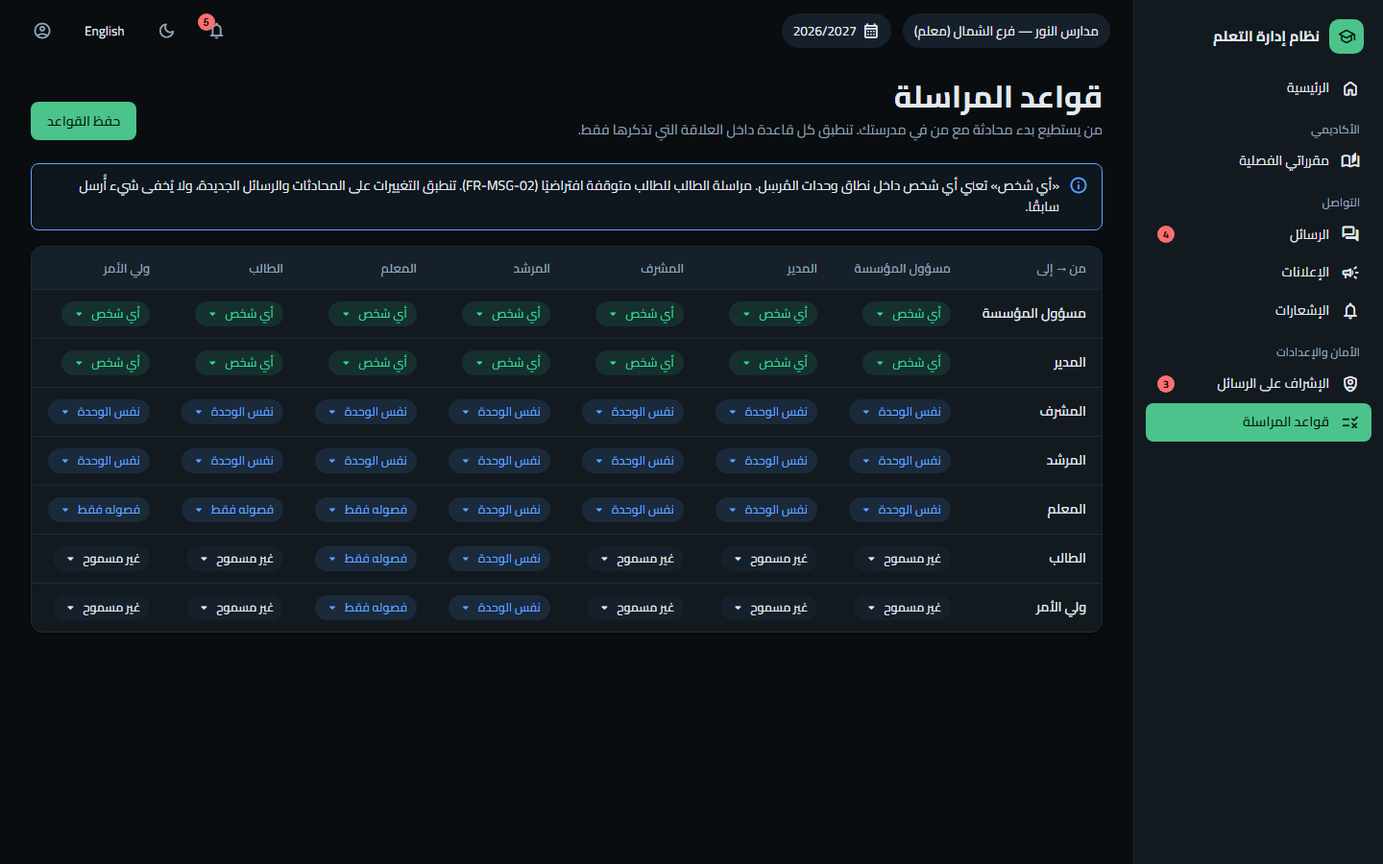
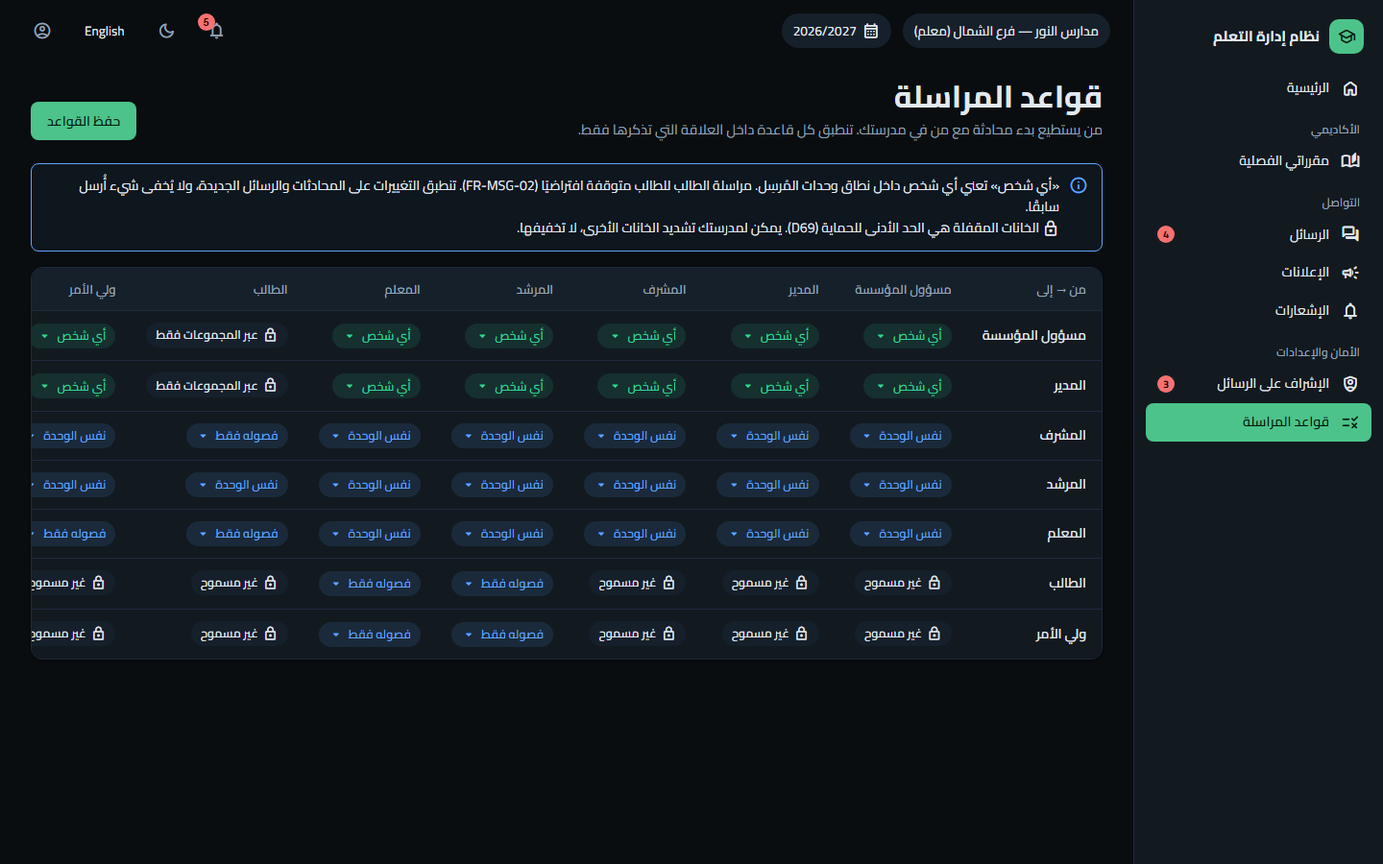
docs(design): M6 spec rev 3 - D66-D69 and #613 revision 3
Delete for everyone within 15 min ('Message deleted', no edit) and a
separate moderator 'removed' text; announcement targets Level and
IncludeSubtree with the Staff/Students/Guardians role filter replacing
the guardians toggle; attachments settled; moderation scoped by
MessageReportUnit with #613's action set (restrict wording kept); D69
in the picker for managers and admins (compose-admin state) and a
locked safeguarding floor on the rules page; read receipts off by
default; section 10 records the owner decisions.

Changed region(s): [[0.0, 0.2489, 0.8125, 0.7778], [0.0312, 0.3733, 0.0625, 0.4044]]

diff --git a/docs/design/mockups/m6.html b/docs/design/mockups/m6.html
@@ -294,6 +294,13 @@ const S = {
     rlNote:'“Anyone” means anyone inside the sender’s own unit scope. Student to student is off by default (FR-MSG-02). Changes apply to new conversations and new messages; nothing already sent is hidden.',
     roAdmin:'Org admin', roMgr:'Manager', roSup:'Supervisor', roCou:'Counselor', roTch:'Teacher', roStu:'Student', roGua:'Guardian',
     vAny:'Anyone', vRel:'Own classes', vUnit:'Same unit', vNo:'Not allowed', navRules:'Messaging rules', secSec:'Security and settings'
+    , gm4:'This message was removed by a moderator.', delEveryone:'Delete for everyone', msgDeleted:'Message deleted', youDeleted:'You deleted this message.',
+    scLevel:'Level', inclSub:'Include the units below', inclSubH:'North Branch and every unit under it.', roleF:'Who in these targets', audLevel:'Grade 10',
+    dKeep:'Keep the message', dKeepH:'Close the report. The message stays; the reporter is told it was reviewed.', dRemove:'Remove the message', dRemoveH:'Everyone in the conversation sees “removed by a moderator”. Moderators keep the original text.',
+    dWarn:'Warn the sender', dWarnH:'Yousef gets a warning notice. The message stays.', dRestrictOnly:'Restrict the sender', dRemRes:'Remove and restrict the sender', dRemResH:'Removes the message, and Yousef can read but not send until the end date.',
+    d69t:'No students here', d69:'Managers and org admins reach students through a class or group conversation, or an announcement, not a private message. Your school’s safeguarding rules set this.',
+    adminSearch:'Omar', grpStudents:'Groups that include students', o6:'Grade 10 — students and guardians (group)', o6c:'52 people',
+    vGroups:'Groups only', locked:'Set by the platform (safeguarding): can’t be loosened', rlNote2:'Locked cells are the safeguarding floor (D69). Your school can make other cells stricter, never looser.'
   },
   ar: {
     app:'نظام إدارة التعلم', ctx:'مدارس النور — فرع الشمال (معلم)', year:'2026/2027', other:'English',
@@ -362,6 +369,13 @@ const S = {
     rlNote:'«أي شخص» تعني أي شخص داخل نطاق وحدات المُرسِل. مراسلة الطالب للطالب متوقفة افتراضيًا (FR-MSG-02). تنطبق التغييرات على المحادثات والرسائل الجديدة، ولا يُخفى شيء أُرسل سابقًا.',
     roAdmin:'مسؤول المؤسسة', roMgr:'المدير', roSup:'المشرف', roCou:'المرشد', roTch:'المعلم', roStu:'الطالب', roGua:'ولي الأمر',
     vAny:'أي شخص', vRel:'فصوله فقط', vUnit:'نفس الوحدة', vNo:'غير مسموح', navRules:'قواعد المراسلة', secSec:'الأمان والإعدادات'
+    , gm4:'أزال المشرف هذه الرسالة.', delEveryone:'حذف لدى الجميع', msgDeleted:'رسالة محذوفة', youDeleted:'حذفت هذه الرسالة.',
+    scLevel:'المستوى', inclSub:'تضمين الوحدات التابعة', inclSubH:'فرع الشمال وكل الوحدات التابعة له.', roleF:'من يراه داخل هذه الأهداف', audLevel:'الصف العاشر',
+    dKeep:'إبقاء الرسالة', dKeepH:'إغلاق البلاغ وتبقى الرسالة، ويُبلَّغ المُبلِغ بأنه رُوجع.', dRemove:'إزالة الرسالة', dRemoveH:'يرى كل من في المحادثة «أزالها المشرف». يحتفظ المشرفون بالنص الأصلي.',
+    dWarn:'تحذير المُرسِل', dWarnH:'يصل إلى يوسف إشعار تحذير، وتبقى الرسالة.', dRestrictOnly:'منع المُرسِل من المراسلة', dRemRes:'الإزالة ومنع المُرسِل', dRemResH:'تُزال الرسالة، ويستطيع يوسف القراءة دون الإرسال حتى تاريخ الانتهاء.',
+    d69t:'لا يظهر الطلاب هنا', d69:'يتواصل المديرون ومسؤولو المؤسسة مع الطلاب عبر محادثة فصل أو مجموعة، أو عبر إعلان، لا برسالة خاصة. تحدد ذلك قواعد الحماية في مدرستك.',
+    adminSearch:'عمر', grpStudents:'مجموعات تضم طلابًا', o6:'الصف العاشر — الطلاب وأولياء الأمور (مجموعة)', o6c:'52 شخصًا',
+    vGroups:'عبر المجموعات فقط', locked:'تحدده المنصة (الحماية): لا يمكن تخفيفه', rlNote2:'الخانات المقفلة هي الحد الأدنى للحماية (D69). يمكن لمدرستك تشديد الخانات الأخرى، لا تخفيفها.'
   }
 }[lang];
 
@@ -400,7 +414,9 @@ function inbox() {
     <div class="lms-thread-body" role="log" aria-live="polite"><span class="lms-day">${S.yesterday}</span>
       ${msg('them', S.m1, `<span class="ltr">16:05</span>`)}
       ${msg('me', S.m2, `<span class="ltr">16:20</span> · ${I('done_all','ms-sm')} ${S.seen}`, '', `<div class="lms-attach">${I('picture_as_pdf')}<span>${S.attach}</span></div>`)}
-      <span class="lms-day">${S.today}</span>${msg('them', S.m3, `<span class="ltr">10:42</span>`)}</div>${composer()}</section>`;
+      <span class="lms-day">${S.today}</span>${msg('them', S.m3, `<span class="ltr">10:42</span>`)}
+      <div style="position:relative;align-self:flex-end">${msg('me', (lang==='ar'?'ممتاز، شكرًا لكِ.':'Great, thank you.'), `<span class="ltr">10:44</span> · ${S.sent}`)}
+        <div class="lms-menu" role="menu" style="position:absolute;inset-block-end:100%;inset-inline-end:0;margin-block-end:6px"><div>${I('content_copy')}${S.menuCopy}</div><hr><div class="err">${I('delete')}${S.delEveryone}</div></div></div></div>${composer()}</section>`;
   return shell('inbox', header(S.inboxTitle, S.inboxSub, `<button class="btn btn-filled">${I('edit_square')}${S.newMsg}</button>`) + `<div class="card lms-inbox">${list('c1')}${thread}</div>`);
 }
 function thread() {
@@ -410,9 +426,10 @@ function thread() {
       ${msg('me', S.gm1, `<span class="ltr">09:15</span> · ${S.sent}`)}
       <div style="position:relative">${msg('them', S.gm2, `<span class="ltr">09:31</span>`, S.fromHuda)}
         <button class="icon-btn sm focus" aria-label="${S.moreActions}" aria-expanded="true" style="position:absolute;inset-block-start:22px;inset-inline-start:min(420px,72%)">${I('more_horiz')}</button>
-        <div class="lms-menu" role="menu" style="inset-block-start:58px;inset-inline-start:min(300px,30%)"><div>${I('notifications_off')}${S.menuMute}</div><div>${I('content_copy')}${S.menuCopy}</div><div>${I('delete')}${S.delMe}</div><hr><div class="err">${I('flag')}${S.menuReport}</div><div class="err">${I('block')}${S.menuBlock}</div></div></div>
+        <div class="lms-menu" role="menu" style="inset-block-start:58px;inset-inline-start:min(300px,30%)"><div>${I('notifications_off')}${S.menuMute}</div><div>${I('content_copy')}${S.menuCopy}</div><hr><div class="err">${I('flag')}${S.menuReport}</div><div class="err">${I('block')}${S.menuBlock}</div></div></div>
       <div class="lms-msg lms-msg-them lms-msg-removed"><span class="lms-msg-from">${S.fromAhmad}</span><div class="lms-bubble">${I('do_not_disturb_on','ms-sm')} ${S.gm4}</div></div>
-      ${msg('me', S.gm3, `<span class="ltr">09:40</span> · ${I('done_all','ms-sm')} ${S.seen}`)}</div>
+      ${msg('me', S.gm3, `<span class="ltr">09:40</span> · ${S.sent}`)}
+      <div class="lms-msg lms-msg-me lms-msg-removed"><div class="lms-bubble">${I('delete','ms-sm')} ${S.youDeleted}</div><span class="lms-msg-meta"><span class="ltr">09:41</span></span></div></div>
     <div class="lms-composer-off"><div class="alert alert-info">${I('info')}<span class="t">${S.off}</span></div></div></section>`;
   return shell('inbox', header(S.inboxTitle, S.inboxSub, `<button class="btn btn-filled">${I('edit_square')}${S.newMsg}</button>`) + `<div class="card lms-inbox show-thread">${list('c2')}${t}</div>`);
 }
@@ -443,8 +460,8 @@ function announcements() {
     `<div class="seg" role="tablist" style="margin-block-end:20px"><span aria-selected="true">${S.fNow}</span><span>${S.fScheduled}</span><span>${S.fDrafts}</span><span>${S.fExpired}</span><span>${S.fWithdrawn}</span></div>
     <div class="lms-ann-list">
     ${ann({pin:1, icon:'push_pin', t:S.a1, chips:`<span class="chip chip-success chip-dot">${S.pinned}</span>`, m:`<span>${S.a1m}</span><span>${S.a1x}</span>`, x:S.a1t, aud:aud('domain',S.audOrg)+aud('family_restroom',S.audRoleG), read:S.readBy})}
-    ${ann({icon:'campaign', t:S.a2, m:`<span>${S.a2m}</span>`, x:S.a2t, aud:aud('menu_book',S.audCourse+' · '+S.audClass)+aud('family_restroom',S.audInclG)})}
-    ${ann({icon:'schedule', t:S.a3, chips:`<span class="chip chip-info chip-dot">${S.scheduled}</span>`, m:`<span>${S.a3m}</span>`, x:S.a3t, aud:aud('account_tree',S.audUnit)+aud('school',S.audRoleS)+aud('family_restroom',S.audInclG)})}
+    ${ann({icon:'campaign', t:S.a2, m:`<span>${S.a2m}</span>`, x:S.a2t, aud:aud('menu_book',S.audCourse+' · '+S.audClass)+aud('school',S.audRoleS)+aud('family_restroom',S.audRoleG)})}
+    ${ann({icon:'schedule', t:S.a3, chips:`<span class="chip chip-info chip-dot">${S.scheduled}</span>`, m:`<span>${S.a3m}</span>`, x:S.a3t, aud:aud('account_tree',S.audUnit)+aud('stairs',S.audLevel)+aud('school',S.audRoleS)+aud('family_restroom',S.audRoleG)})}
     </div>`);
 }
 function announceCompose() {
@@ -453,9 +470,10 @@ function announceCompose() {
     <div class="grid2"><div class="field"><span class="label">${S.acTitleAr}</span><div class="input" dir="rtl">لقاءات أولياء الأمور والمعلمين</div></div><div class="field"><span class="label" style="color:var(--mud-palette-error)">${S.acTitleEn}</span><div class="input" dir="ltr" aria-invalid="true" style="border:2px solid var(--mud-palette-error)"><span class="ph-text"></span></div><span class="help" style="color:var(--mud-palette-error)">${I('error','ms-sm')} ${S.errTitleEn}</span></div></div>
     <div class="field"><span class="label">${S.acBody}</span><div class="input" style="min-height:80px;align-items:flex-start">${S.a1t}</div></div>
     <fieldset style="border:0;padding:0;margin:0;display:flex;flex-direction:column;gap:12px"><legend class="label" style="margin-block-end:8px">${S.audScope}</legend>
-      <div class="seg" style="flex-wrap:wrap"><span>${S.scOrg}</span><span aria-selected="true">${S.scUnit}</span><span>${S.scClass}</span><span>${S.scCourse}</span><span>${S.scGroup}</span><span>${S.scRole}</span></div>
+      <div class="seg" style="flex-wrap:wrap"><span>${S.scOrg}</span><span aria-selected="true">${S.scUnit}</span><span>${S.scLevel}</span><span>${S.scClass}</span><span>${S.scCourse}</span><span>${S.scGroup}</span></div>
       <div class="field"><span class="label">${S.audPick}</span><div class="input"><span class="chip chip-input">${S.audUnit}<span class="ms ms-sm">close</span></span><span class="ph-text"></span>${I('arrow_drop_down')}</div></div>
-      <div class="toggle-row"><div class="t"><b>${S.inclG}</b><span class="help">${S.inclGH}</span></div><span class="switch on"></span></div>
+      <div class="toggle-row"><div class="t"><b>${S.inclSub}</b><span class="help">${S.inclSubH}</span></div><span class="switch on"></span></div>
+      <div class="field"><span class="label">${S.roleF}</span><div style="display:flex;flex-wrap:wrap;gap:8px"><span class="chip chip-success">${I('check')}${S.rStaff}</span><span class="chip">${S.rStudents}</span><span class="chip chip-success">${I('check')}${S.rGuardians}</span></div></div>
       <div class="alert alert-info">${I('groups')}<span class="t" role="status">${S.reach}</span></div></fieldset>
     <div class="field"><span class="label">${S.when}</span><div class="seg"><span>${S.pNow}</span><span aria-selected="true">${S.pLater}</span></div></div>
     <div class="grid2"><div class="field"><span class="label">${S.pDate}</span><div class="input"><span class="ltr">2026-11-15</span><span class="ph-text"></span>${I('event')}</div></div><div class="field"><span class="label">${S.pTime}</span><div class="input"><span class="ltr">07:00</span><span class="ph-text"></span>${I('schedule')}</div></div></div>
@@ -496,7 +514,7 @@ function moderation() {
         ${msg('them', S.dm1, '<span class="ltr">10:31</span>', S.from1)}<div class="lms-flagged">${msg('them', S.dm2, `<span class="ltr">10:38</span> · <span class="chip chip-warning" style="height:22px">${I('flag')}${S.flagged}</span>`, S.from2)}</div>${msg('them', S.dm3, '<span class="ltr">10:40</span>', S.from3)}</div>
       <div><div class="label">${S.reasonL}</div><p>${S.r1r} · ${S.reasonT}</p></div>
       <div><div class="label">${S.sender}</div><p class="muted">${S.senderV}</p></div>
-      <fieldset style="border:0;padding:0;margin:0;display:flex;flex-direction:column;gap:8px"><legend class="label" style="margin-block-end:6px">${S.decide}</legend>${opt(0,S.dDismiss,S.dDismissH)}${opt(0,S.dHide,S.dHideH)}${opt(1,S.dRestrict,S.dRestrictH,1)}
+      <fieldset style="border:0;padding:0;margin:0;display:flex;flex-direction:column;gap:8px"><legend class="label" style="margin-block-end:6px">${S.decide}</legend>${opt(0,S.dKeep,S.dKeepH)}${opt(0,S.dRemove,S.dRemoveH)}${opt(0,S.dWarn,S.dWarnH)}${opt(1,S.dRemRes,S.dRemResH,1)}
         <div class="grid2" style="padding-inline-start:44px"><div class="field"><span class="label">${S.forL}</span><div class="input"><span>${S.days7}</span><span class="ph-text"></span>${I('arrow_drop_down')}</div><span class="help ltr">${S.untilL}</span></div></div>
         ${opt(0,S.dLock,S.dLockH,1)}</fieldset>
       <div class="field"><span class="label">${S.note}</span><div class="input" style="min-height:64px"></div></div>
@@ -508,6 +526,19 @@ function moderation() {
       ${r(1,`<span class="chip chip-warning chip-dot">${S.sReview}</span>`,1)}${r(2,`<span class="chip chip-info chip-dot">${S.sNew}</span>`)}${r(3,`<span class="chip chip-error chip-dot">${S.sNew}</span>`)}${r(4,`<span class="chip chip-info chip-dot">${S.sNew}</span>`)}</tbody></table></div>${detail}</div>`);
 }
 
+
+function composeAdmin() {
+  return `<div class="dialog-wrap"><div class="dialog" role="dialog"><div class="dialog-head"><span class="sec-icon">${I('edit_square')}</span><h2 class="h6" style="flex:1">${S.composeTitle}</h2><button class="icon-btn">${I('close')}</button></div>
+  <div class="dialog-body"><div class="field"><span class="label">${S.to}</span>
+    <div class="input focused"><span>${S.adminSearch}</span><span class="ph-text"></span></div>
+    <div class="lms-picker-pop" role="listbox"><div class="lms-picker-group">${S.grpPeople}</div>
+      <div class="lms-picker-opt" aria-disabled="true" style="align-items:flex-start">${I('shield_person')}<span class="grow"><b style="font-weight:600;color:var(--mud-palette-text-primary)">${S.d69t}</b><div class="caption">${S.d69}</div></span></div>
+      <div class="lms-picker-group">${S.grpStudents}</div>
+      <div class="lms-picker-opt">${I('groups')}<span class="grow">${S.o6}</span><span class="caption muted">${S.o6c}</span></div>
+      <div class="lms-picker-opt">${I('groups')}<span class="grow">${S.o1}</span><span class="caption muted">${S.o1c}</span></div></div>
+    <span class="help">${S.toHelp}</span></div></div>
+  <div class="dialog-actions"><button class="btn">${S.cancel}</button><button class="btn btn-filled" disabled>${I('send','flip')}${S.sendBtn}</button></div></div></div>`;
+}
 function composerStates() {
   const st = (label, html, action='') => `<div class="card" style="overflow:hidden"><div class="caption muted" style="padding:10px 16px;font-weight:600">${label}</div><div class="lms-composer-off" style="display:flex;gap:12px;align-items:center;flex-wrap:wrap">${html}${action}</div></div>`;
   const al = (t, icon='info', cls='alert-info') => `<div class="alert ${cls}" style="flex:1;min-inline-size:220px">${I(icon)}<span class="t">${t}</span></div>`;
@@ -522,15 +553,17 @@ function composerStates() {
 }
 function rules() {
   const roles = ['roAdmin','roMgr','roSup','roCou','roTch','roStu','roGua'];
-  const v = { roAdmin:'AAAAAAA', roMgr:'AAAAAAA', roSup:'UUUUUUU', roCou:'UUUUUUU', roTch:'UUUURRR', roStu:'NNNURNN', roGua:'NNNURNN' };
-  const cell = (c, to) => { const t = {A:S.vAny, U:S.vUnit, R:S.vRel, N:S.vNo}[c]; const cls = c==='N' ? '' : c==='A' ? 'chip-success' : 'chip-info';
+  const v = { roAdmin:'AAAAAGA', roMgr:'AAAAAGA', roSup:'UUUUURU', roCou:'UUUUUUU', roTch:'UUUUURR', roStu:'XXXRRXX', roGua:'XXXRRXX' };
+  const cell = (c, to) => {
+    if (c === 'X' || c === 'G') return `<td data-label="${S[to]}"><span class="chip" title="${S.locked}">${I('lock','ms-sm')}${c==='G'?S.vGroups:S.vNo}<span class="vh">${S.locked}</span></span></td>`;
+    const t = {A:S.vAny, U:S.vUnit, R:S.vRel, N:S.vNo}[c]; const cls = c==='N' ? '' : c==='A' ? 'chip-success' : 'chip-info';
     return `<td data-label="${S[to]}"><span class="chip ${cls}">${t}${I('arrow_drop_down')}</span></td>`; };
   return shell('rules', header(S.rlTitle, S.rlSub, `<button class="btn btn-filled">${S.rlSave}</button>`) +
-    `<div class="alert alert-info" style="margin-block-end:16px">${I('info')}<span class="t">${S.rlNote}</span></div>
+    `<div class="alert alert-info" style="margin-block-end:16px">${I('info')}<span class="t">${S.rlNote}<br>${I('lock','ms-sm')} ${S.rlNote2}</span></div>
     <div class="card" style="overflow-x:auto"><table class="stack"><thead><tr><th>${S.rlFrom} → ${S.to}</th>${roles.map(r => `<th>${S[r]}</th>`).join('')}</tr></thead><tbody>
-    ${roles.map(r => `<tr><td data-label="${S.rlFrom}" style="font-weight:600">${S[r]}</td>${[...v[r]].map((c,i) => cell(c, roles[i])).join('')}</tr>`).join('')}</tbody></table></div>`);
+    ${roles.map(r => `<tr><td data-label="${S.rlFrom}" style="font-weight:600;white-space:nowrap;overflow-wrap:normal">${S[r]}</td>${[...v[r]].map((c,i) => cell(c, roles[i])).join('')}</tr>`).join('')}</tbody></table></div>`);
 }
-document.getElementById('app').innerHTML = ({inbox, thread, compose, announcements, 'announce-compose':announceCompose, notifications, prefs, moderation, 'composer-states':composerStates, rules}[screen] || inbox)();
+document.getElementById('app').innerHTML = ({inbox, thread, compose, announcements, 'announce-compose':announceCompose, notifications, prefs, moderation, 'composer-states':composerStates, rules, 'compose-admin':composeAdmin}[screen] || inbox)();
 </script>
 </body>
 </html>

diff --git a/docs/design/m6-communication.md b/docs/design/m6-communication.md
@@ -1,9 +1,9 @@
 # M6 design spec (draft): communication
 
-**Status:** draft, revision 2 (QA2's review on #615, aligned with FE1's #612 and BE1's #613). It isn't a plan task yet; the plan decides scope and order. Names that must match the backend (`ModerationActions`, `AnnouncementTargetKinds`, statuses) follow #613; §11 lists what this spec asks #612 and #613 to change.
+**Status:** draft, revision 3: QA2's re-review, aligned with the owner decisions **D66–D69** and **#613 revision 3**. It isn't a plan task yet; the plan decides scope and order. Names that must match the backend (`ModerationActions`, `AnnouncementTargetKinds`, statuses) follow #613; §11 lists what this spec asks #612 and #613 to change.
 **PRD:** FR-NOT-01, FR-NOT-02, FR-NOT-03, FR-MSG-01, FR-MSG-02, FR-MSG-03, FR-MSG-04; X-01 (bilingual), X-07 (notifications), X-10 (accessibility, 360 px).
-**Mockups:** `docs/design/mockups/m6.html`. It's static HTML in the Stitch tokens from `LmsTheme.cs` and `lms-stitch.css`. Open it with `?screen=inbox|thread|composer-states|compose|announcements|announce-compose|notifications|prefs|moderation|rules&lang=ar|en&theme=light|dark` (and `screen=prefs&push=denied`).
-**Screenshots:** `docs/screenshots/ux-m6/<screen>-<lang>-<theme>-<width>.png`. Each screen is shot at 1440 px (en light, ar dark) and at 360 px (ar light, en dark): 44 shots, none scrolls sideways.
+**Mockups:** `docs/design/mockups/m6.html`. It's static HTML in the Stitch tokens from `LmsTheme.cs` and `lms-stitch.css`. Open it with `?screen=inbox|thread|composer-states|compose|compose-admin|announcements|announce-compose|notifications|prefs|moderation|rules&lang=ar|en&theme=light|dark` (and `screen=prefs&push=denied`).
+**Screenshots:** `docs/screenshots/ux-m6/<screen>-<lang>-<theme>-<width>.png`. Each screen is shot at 1440 px (en light, ar dark) and at 360 px (ar light, en dark): 48 shots, none scrolls sideways.
 
 Everything in `docs/DESIGN.md` (the Stitch section and its deviations table) applies. This file only adds what M6 needs. The new classes in §8 go into `lms-stitch.css` in a small `lane:ux` PR before the M6 pages start.
 
@@ -15,6 +15,7 @@ Everything in `docs/DESIGN.md` (the Stitch section and its deviations table) app
   - The recipient picker lists a near-miss as a **disabled option with its reason** (for example, a class the teacher doesn't teach). It never lists people the user can't know about.
   - In a read-only conversation, the composer becomes an info alert with the rule in plain words.
   - **A blocked person is never told they are blocked** (PRD, #612, #613). They see the generic "You can't send messages in this conversation." Only the person who blocked sees "You blocked Ahmad Yousef…" with **Unblock**. Both states are in `screen=composer-states`, with the moderator restriction, messaging turned off, and the rate limit.
+- **Safeguarding first (D69).** Students message only their own teachers and counselor, never other students. Guardians message only their children's teachers and counselor. **Managers and org admins reach students only through groups or announcements**, with no private one-to-one. The UI never offers what these rules forbid, and the rules page shows them as a locked floor (§7a).
 - **Two different tools, two different words.** A **block** is one person's choice about another (`UserBlock`, `PUT /api/me/blocks/{id}`); only the blocker can lift it. A **restriction** is a moderator's decision that a person can't send for a time (`MessagingRestriction`, with an end date). The UI never mixes the words: "Block" and "Unblock" belong to the person; "Restrict from messaging" and "Lift restriction" belong to moderators. A moderator never sees or lifts a person's own blocks, so a moderator can't expose someone who blocked a harasser.
 - **Dates and times** follow DESIGN.md: `yyyy-MM-dd` and `HH:mm`, invariant, inside `<span dir="ltr">`. In lists, recent items use relative words: today shows the time, then "Yesterday" and the weekday name for this week, then the date.
 - **Names and mixed scripts.** Every person or group name sits in its own `<bdi>` (`dir="auto"`), so an English name in an Arabic sentence ("Huda Al-Harbi sent you a message") keeps its order. Message text is shown with `dir="auto"` for each message.
@@ -58,15 +59,18 @@ Mockups: `screen=inbox` (a one-to-one conversation) and `screen=thread` (a group
    - **Unread:** the name and preview are bold, with a count badge in primary at the end. This is the only place a count badge is primary instead of error, because unread messages are normal, not alarming.
    - **Current row:** `aria-current="true"`, a primary tint and a 3 px bar on the inline-start edge.
    - **Accessibility:** each row is one link. Its accessible name is "name, n unread, time, preview".
-5. **Thread header.** Avatar, name, and a caption: a person's role and context ("Guardian of Omar Saleh · 10-A"), or the group size ("Group · 24 people"). The participants are always discoverable: a group's caption opens **Members**, so a student can see exactly who can read the conversation. Nobody outside the participant list can read it (#613 privacy rules): guardians have no access to their child's conversations with staff unless the owner decides otherwise (Q2), and the UI shows no "Shared with guardians" state until then. The header ends with a More actions menu: Mute conversation, Members (for groups), and Leave group (for groups the user didn't create).
+5. **Thread header.** Avatar, name, and a caption: a person's role and context ("Guardian of Omar Saleh · 10-A"), or the group size ("Group · 24 people"). The participants are always discoverable: a group's caption opens **Members**, so a student can see exactly who can read the conversation. Nobody outside the participant list can read it (#613 privacy rules): guardians have no access to their child's conversations with staff (D69), and the UI has no "Shared with guardians" state. The header ends with a More actions menu: Mute conversation, Members (for groups), and Leave group (for groups the user didn't create).
 6. **Messages.**
    - **Bubbles:** the user's own messages sit at the inline end, tinted with 12 % primary. Other people's sit at the inline start, on the surface colour with a 1 px border. Bubbles are at most 560 px wide (88 % at 360 px). The corner nearest the sender is 4 px.
    - **Sender names:** in a group, the sender's name is shown above their first bubble in a run.
    - **Day separators:** a centred `lms-day` chip.
-   - **Meta line:** the time, then, for the user's own messages, the state: "Sent" or "Seen" (with the DoneAll icon). Read receipts are optional (FR-MSG-01) and follow the client setting; when they're off, "Seen" never shows.
+   - **Meta line:** the time, then, for the user's own messages, the state: "Sent", or "Seen" (with the DoneAll icon). **Read receipts are off by default (D66)**, so "Seen" shows only for a client that turns them on.
    - **Attachments:** a recessed row inside the bubble with the file-type icon, the name and the size. Images show a thumbnail at most 240 px wide, and open in a new tab.
-   - **Hidden messages:** `lms-msg-removed` shows a dashed outline and the italic text "This message was hidden by a moderator." (`HideMessage`, state `HiddenByModerator` in #613). The original text isn't shown to anyone in the conversation.
-7. **Message menu.** On hover or focus of a message, a More icon button appears (it stays visible on touch screens). Its menu has Copy text and **Delete for me** (#612; whether senders may delete for everyone in a window, as #613 proposes, is #612 Q5), then a divider, then **Report message** and **Block [name]** in the error colour, last. Report opens a small dialog: a reason (radio: Harassment, Spam, Safety concern, Other) and an optional note. Block confirms with what it does: "You won't get messages from Ahmad. They aren't told."
+   - **Removed messages:** `lms-msg-removed` shows a dashed outline and italic text. There are two texts for two actions: a moderator's **Remove** shows "This message was removed by a moderator." and the sender's own delete shows "Message deleted". Only moderators keep the original text (#613 rev 3).
+7. **Message menu.** On hover or focus of a message, a More icon button appears (it stays visible on touch screens).
+   - **Other people's messages:** Copy text, then a divider, then **Report message** and **Block [name]** in the error colour, last.
+   - **The user's own messages:** Copy text, and **Delete for everyone**, which appears only within **15 minutes** of sending (D66). There's no countdown; the item is simply gone after the window. There's no Edit (D66).
+   - **Deleted messages:** a sender's deletion leaves a dashed bubble that says "Message deleted" to everyone else and "You deleted this message." to the sender (`screen=thread`). This is a different text from the moderator's removal (§2.6). Report opens a small dialog: a reason (radio: Harassment, Spam, Safety concern, Other) and an optional note. Block confirms with what it does: "You won't get messages from Ahmad. They aren't told."
 8. **Composer** (`lms-composer`, sticky at the bottom of the thread):
    - an Attach icon button, a multi-line recessed text field ("Write a message"), and a filled Send button with its label (the icon mirrors in RTL);
    - **Enter adds a new line and Ctrl+Enter (Cmd+Enter) sends.** #612 proposes Enter to send; this spec keeps Ctrl+Enter, because Arabic input methods confirm candidates with Enter and touch keyboards have no Shift, so Enter-to-send sends half-written messages. A hint under the field says "Ctrl+Enter to send". #612 should follow (its Q13);
@@ -83,6 +87,7 @@ Mockup: `screen=compose`.
 2. **To.** A recessed multi-select autocomplete (`MudAutocomplete` with chips). The results come from a server endpoint that applies the messaging rules, after 2 typed characters, debounced at 300 ms. They're grouped:
    - **Classes and courses:** "Physics 1 · 10-A — guardians" and "— students", each with its size at the end. They're only offered where the user teaches or manages, and the rules allow it.
    - **People:** an avatar, the name, and a caption with the role and context. Picked people get a check mark.
+   - **D69 for managers and org admins:** students are never offered as people. When their search would have matched students, the People group shows one disabled row instead: "No students here. Managers and org admins reach students through a class or group conversation, or an announcement, not a private message." The groups that include students are listed below it (`screen=compose-admin`).
    - A **disabled option with its reason** for a near-miss the user would expect: "Physics 1 · 10-B — guardians · Not allowed: you don't teach 10-B". It's shown **only for a class inside the sender's own unit scope**, at most one row, **never a person, and never a size**. Nothing outside the sender's scope is named. The server returns it with the rules summary (#612's recipients read); if it can't do that cheaply, drop the row and keep the hint line.
 3. **Subject** (optional) becomes the group name when there are several recipients. Its help text says so.
 4. **Message:** a recessed multi-line field, 5 lines high.
@@ -100,20 +105,21 @@ Mockups: `screen=announcements` (the list) and `screen=announce-compose` (new or
    - **Header:** a section icon (PushPin when pinned, Schedule when scheduled, Campaign otherwise), then the title (h2) and status chips: **Pinned** (success, with a dot) and **Scheduled** (info, with a dot).
    - **Meta line:** the author or office, the date, and the "Until yyyy-MM-dd" expiry.
    - **Body:** the text, clamped to 4 lines, with "Read more".
-   - **Audience chips:** one per target, using #613's `AnnouncementTargetKinds` only: Domain (Organization), AccountTree (Unit), Groups (Class), MenuBook (Course = ClassCourse), Diversity3 (Group), Badge (Role). When `IncludeGuardians` is on, one more chip says "Guardians included". There's no Level target.
+   - **Audience chips:** one per target, using #613 revision 3's `AnnouncementTargetKinds`: Domain (Organization), AccountTree (Unit), Stairs (Level), Groups (Class), MenuBook (Course = ClassCourse) and Diversity3 (Group). They're followed by the `RoleFilter` chips: Badge (Staff), School (Students) and FamilyRestroom (Guardians).
    - **Read count:** "Read by 412 of 590", shown only to the author and to managers.
    - **Order:** pinned cards first (with a 35 % primary border), then newest first.
    - **More actions menu:** Edit (Draft and Scheduled; once Published only pin and expiry change, #613), then **Withdraw** (error colour, last, with a confirmation; #613's word and status).
 4. **New announcement** dialog:
-   - **Titles:** in Arabic and in English, side by side, each field in its own direction; the text field is below them. Both titles are required, as for every bilingual business name (`NameAr`/`NameEn`); the error is shown at the empty field: "Enter the title in English too. Each reader sees the title in their language." (#613 has one title and #612 has two: see §11.)
+   - **Titles:** in Arabic and in English, side by side, each field in its own direction; the body is below them. Both titles are required (`TitleAr`/`TitleEn` in #613 rev 3, D66), and the error is shown at the empty field: "Enter the title in English too. Each reader sees the title in their language." At least one body (ar or en) is required.
    - **Audience** (a fieldset with the legend "Who should see it"):
-     - a segmented scope control with #613's kinds: Organization, Unit, Class, Course (ClassCourse), Group, Role. Only the kinds the author may use are shown (a teacher sees Course and Group only);
-     - the targets of that kind as a multi-select with chips (for Role: the role and the unit it applies at);
-     - an **Include guardians** toggle row (`IncludeGuardians`, default as #613 Q20 decides);
+     - a segmented scope control with #613 revision 3's kinds: Organization, Unit, **Level**, Class, Course (ClassCourse) and Group. Only the kinds the author may use are shown (a teacher sees Course and Group only);
+     - the targets of that kind as a multi-select with chips;
+     - for Unit targets, an **Include the units below** toggle row (`IncludeSubtree`);
+     - **Who in these targets:** three filter chips, Staff, Students and Guardians (`RoleFilter`), which replace a separate guardians toggle;
      - a reach estimate in an info alert (`role="status"`, debounced 500 ms) from `…/audience-preview`: counted **only inside the author's scope**, and rounded above 100 ("About 600 people"), so it can't be used to measure a part of the school the author can't see.
    - **Publishing:** a segmented Now / Schedule control. Schedule reveals the date and time fields and the time-zone caption, worded as in the M4b spec.
    - **Toggle rows** (`lms-toggle-row`): Pin to the top, and Notify the audience. Each has a one-line help text.
-   - **Attachments:** up to 5 files, as in messages (#612). #613 has no announcement attachments yet: see §11.
+   - **Attachments:** up to 5 files (`AnnouncementAttachment`, #613 rev 3), with the same type and size rules as message attachments.
    - **Expires on:** an optional date, with help text.
    - **Buttons:** Cancel, **Save as draft** (outlined), and Publish or Schedule (filled). The label follows the publishing mode.
 
@@ -152,7 +158,7 @@ Mockup: `screen=prefs`. This extends the existing `/notifications/preferences` p
 
 Mockup: `screen=moderation`.
 
-1. **Route:** `/moderation/messages` (#612), behind `Messaging.Moderate` (Org Admin per the PRD matrix; see Q4). The queue is scoped by `ModerationUnitPath` (#613).
+1. **Route:** `/moderation/messages` (#612), behind `Messaging.Moderate` (Org Admin per the PRD matrix, D66). A report is visible to a moderator at or above **any** of its `MessageReportUnit`s: the conversation's context unit, or every active unit of the sender (#613 rev 3). The stat tiles count over the same scope (`GET /api/moderation/stats`); outside the scope they show zeros, not an error.
 2. **Stat tiles:** Open reports, New today, **Restricted from messaging**, Median time to decide. Below 600 px they're two per row, with the icon above the value (the #580 rule).
 3. **Queue.** A table card with a segmented control (Open reports, Closed) and an error chip with the target time: "Safety concern: review within 24 h".
    - **Columns:** Reported message (a one-line excerpt), Reason, Reported by, When, Status. Status is a soft chip: New (info), In review (warning), Removed or Kept (neutral).
@@ -165,19 +171,21 @@ Mockup: `screen=moderation`.
    - the sender line: name, role, class, and the number of earlier reports and removals;
    - the **decision**, a radio group of soft rows (`lms-toggle-row` with a radio), mapped one-to-one to #613's `ModerationActions`:
 
-     | UI option | Action | What happens |
+     | UI option | Action (#613 rev 3) | What happens |
      |---|---|---|
-     | Dismiss the report | `Dismiss` | The message stays; the reporter is told it was reviewed. |
-     | Hide the message | `HideMessage` | Everyone in the conversation sees "hidden by a moderator". |
-     | Hide it and restrict the sender, **for [7 days ▾]** | `HideMessage` + `Restrict` (`UntilUtc`) | The sender can read but can't send until the end date, shown as "Until yyyy-MM-dd". Durations: 1, 7, 30 days. |
+     | Keep the message | `Dismiss` | The message stays; the reporter is told it was reviewed. |
+     | Remove the message | `Remove` | Everyone in the conversation sees "removed by a moderator"; moderators keep the original text. |
+     | Warn the sender | `Warn` | The sender gets a `Messaging.Warning` notice; the message stays. |
+     | Restrict the sender, **for [7 days ▾]** | `Restrict` | The sender can read but can't send until the end date ("Until yyyy-MM-dd"). Durations: 1, 7, 30 days. |
+     | Remove and restrict the sender, **for [7 days ▾]** | `RemoveAndRestrict` | Both of the above. |
      | Lock the conversation | `LockConversation` | Nobody can send in it any more (for a group gone wrong). |
 
-     The last two have their labels in the error colour, last. #613's `DeleteMessage` has no UI in v1: hiding is enough for participants, and hard deletion is a retention question (Q6). #612's `WarnSender` becomes the optional note to the sender. Each option has one line explaining what happens.
+     The options that act on the sender or the conversation (the last three) have their labels in the error colour, and they come last. #613 rev 3 calls `RemoveAndRestrict` "Remove and block sender" in a UI note; this spec keeps **restrict**, because **block** is the person's own tool (§1). Each option has one line explaining what happens. The mockup shows four of the six for space.
    - an optional note to the people involved, and **Save decision** (filled).
 5. **After a decision.**
    - **Who is told:** the reporter and the sender are notified (`evMod`), but the reporter never learns which action was taken against the sender. The reporter sees "reviewed".
    - **Audit:** every decision is recorded (X-02).
-   - **The message:** hiding it replaces the text for everyone with the hidden state from §2.6.
+   - **The message:** removing it replaces the text for everyone with the removed state from §2.6.
 6. **Lifting a restriction.** The **Restricted from messaging** tile filters to a list of `MessagingRestriction`s (person, until, by, reason) with a **Lift restriction** action in each row. It never lists or touches people's own blocks (§1).
 
 ## 7a. Messaging rules (FR-MSG-02)
@@ -186,7 +194,9 @@ Mockup: `screen=rules`. This answers #613 Must 7 (a page for what `Comms.Manage`
 
 1. **Route:** `/settings/messaging-rules`, behind `Comms.Manage` at the client root unit, in the **Security and settings** group.
 2. **The matrix:** the rows are the sender's role ("From") and the columns the recipient's role ("To"), using the built-in roles. Each cell is a small select showing #613's `MessagingRule.Via`: **Anyone** (`Anywhere`, meaning anyone in the sender's unit scope), **Same unit** (`SameUnit`), **Own classes** (`Relationship`), or **Not allowed**. The chips are tinted by permissiveness: success for Anyone, info for the narrower two, neutral for Not allowed.
-3. An info alert above it says student to student is off by default, that changes apply to new conversations and new messages, and that nothing already sent is hidden.
+   - **The D69 floor is locked:** student → anyone but own teachers and counselor, guardian → anyone but their children's teachers and counselor, and manager or org admin → student ("**Groups only**").
+   - **Locked cells** are plain chips with a Lock icon, no dropdown, and the accessible text "Set by the platform (safeguarding): can't be loosened". The page can make any other cell stricter, never looser than D69 ("the Org Admin may tighten per client").
+3. An info alert above it says student to student is off by default, that changes apply to new conversations and new messages, and that nothing already sent is hidden. A second line explains the lock icon.
 4. **Save rules** (filled) at the top, and the save bar while there are changes. Saving is audited (`[Audited]`).
 5. **At 360 px:** each "From" role becomes a block with one labelled row per recipient role.
 6. Caps, quiet hours and provider status (also `Comms.Manage`) go on a sibling **Communication settings** page, which is not drawn here; it's simple settings rows (`lms-toggle-row` and recessed inputs).
@@ -216,18 +226,26 @@ These are to be added in one `lane:ux` PR before the M6 pages start. The referen
 - [ ] Sending never depends on a key shortcut alone: there's always a visible Send button.
 - [ ] The reach estimate and the "N new messages" counts are `role="status"`, and they aren't re-announced on every keystroke (debounce of 500 ms).
 - [ ] The moderation decision is a fieldset with a legend, and the destructive option has more than its colour (its help text says what happens).
-- [ ] Nothing scrolls sideways at 360 px, and every table cell has a `DataLabel`. All 44 mockup shots were checked with `scrollWidth`.
+- [ ] Nothing scrolls sideways at 360 px, and every table cell has a `DataLabel`. All 48 mockup shots were checked with `scrollWidth`.
 - [ ] The rate-limit countdown is a `role="status"` that announces the start and the end only, not every second.
 - [ ] The Messages badge's accessible name counts conversations ("3 conversations with new messages").
 
-## 10. Questions for the Team Lead (owner decisions)
+## 10. Owner decisions applied (D66–D69)
 
-- **Q1 Read receipts:** on or off by default for each client? Should students see "Seen" on staff messages? (The mockup shows "Seen" with receipts on.)
-- **Q2 Guardian visibility:** may guardians read their child's conversations with staff? The PRD doesn't say. **Default (safeguarding): no.** If the owner says yes, a "Shared with guardians" caption goes in the thread header; until then nothing is shown and nothing is shared.
-- **Q3 Report reasons:** is the list fixed (Harassment, Spam, Safety concern, Other), or set for each client? The proposal is fixed, with "Safety concern" reviewed within 24 h and its moderator notification exempt from quiet hours.
-- **Q4 Moderators:** only Org Admin (as in the PRD matrix), or can it be delegated to Managers or Counselors for each unit?
-- **Q5 SMS cost:** should SMS be limited to certain events or roles, for each client? The preferences page would then show those cells as locked off, with "Not offered by your school".
-- **Q6 Removed messages:** how long is a removed message's original text kept for audit, and who can see it?
+The six questions from revision 1 are answered:
+- **Read receipts:** off by default (D66).
+- **Guardian visibility:** no access to a child's conversations, under safeguarding-first rules (D69).
+- **Report reasons:** the fixed list (D66).
+- **Moderators:** Org Admin per the PRD matrix (D66).
+- **SMS:** behind `ISmsProvider` with daily caps (D66, D68), and never carrying message text (D66).
+- **Retention:** as listed, pending legal advice (D66).
+
+What changed in the UI:
+- **Delete:** "Delete for everyone" within 15 minutes, with no edit.
+- **Groups:** up to 50 people. The picker stops at 50 with "Groups can have up to 50 people."
+- **Announcements:** one store with Arabic and English titles.
+- **Quiet hours:** off by default. When a client turns them on (21:00–07:00), SMS and push only; there's no user-level control in v1.
+- **Mandatory events:** they stay locked in preferences.
 
 ## 11. Alignment with #612 and #613
 
@@ -237,13 +255,14 @@ What this spec chose where the three drafts differed (QA2's table on #613), and 
 |---|---|---|
 | Send key | Enter = new line, Ctrl+Enter sends | #612 follows (its Q13) |
 | Block vs restriction | Block is the person's; restriction is the moderator's; the blocked side is never told | Already in #612/#613; #612 names the UI strings as in §1 |
-| Moderation actions | Dismiss, Hide, Hide + Restrict (with end date), Lock | #612 drops `DeleteMessage`/`WarnSender` from the decision (Warn = the note); #613 keeps `DeleteMessage` API-only |
+| Moderation actions | #613 rev 3's set: Keep (`Dismiss`), Remove, Warn, Restrict, Remove and restrict, Lock | #613's UI note says "block" for `RemoveAndRestrict`; the UI says **restrict** |
 | Moderation route | `/moderation/messages` | none (this spec now follows #612) |
-| Announcement targets | #613's kinds + `IncludeGuardians`; no Level, no role chips | #612 drops `includeSubtree` from the UI or #613 adds it |
+| Announcement targets | #613 rev 3: Organization, Unit (+ `IncludeSubtree`), Level, Class, ClassCourse, Group + `RoleFilter` chips | none: settled |
 | Announcement statuses | Draft, Scheduled, Published, Expired, Withdrawn; "Withdraw" | none |
-| Announcement titles | Arabic and English titles, both required | #613 adds the second title (its Q19), as for every bilingual name |
-| Announcement attachments | Up to 5 files (as #612) | #613 adds them, or #612 and this spec drop them for v1 |
-| Message edit/delete | "Delete for me" only | #612 Q5 / #613 decide on delete-for-everyone |
+| Announcement titles | `TitleAr` + `TitleEn` required; body ar and/or en | none: settled (D66) |
+| Announcement attachments | Up to 5 (`AnnouncementAttachment`) | none: settled |
+| Message edit/delete | Delete for everyone within 15 min, "Message deleted"; no edit (D66) | #612 drops "delete for me" |
 | Messages badge | Conversations with unread messages | #612's `MessagingState` uses the same count |
-| Rules matrix page | `/settings/messaging-rules` (§7a) | #612 adds the page task (QA2's #613 Must 7) |
+| Rules matrix page | `/settings/messaging-rules` (§7a) with the D69 floor locked | #612 adds the page task (QA2's #613 Must 7) |
 | Nav | Communication group + Moderation and rules under Security and settings + the app-bar shortcut | #612 agrees |
+| Safeguarding (D69) | Managers and admins: no student in the picker; the rules page locks the floor | #612's picker and rules page follow |
